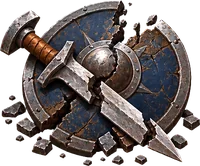
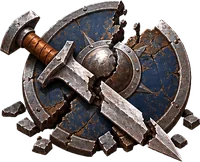
KI-Bilder: Splitter beim Schneiden weg, Anleitung-Rolle schmaler (Text bleibt ganz lesbar)
Claude-Session: https://claude.ai/code/session_01VPpreBuZBrHe5F1psNJEsf

diff --git a/Game/spiel.php b/Game/spiel.php
@@ -1966,8 +1966,8 @@ svg.icon:has(> use[href="#i-castle"]){--ki-sym:url(bilder/ui_sym_burg.webp)} svg
 /* ---------------- Listen-Karten, Hinweisbox (Anleitung), Balken ---------------- */
 .ach{border:0;border-style:solid;background:none;border-image:url(bilder/ui_karte.webp) 24 fill / 8px stretch}
 .ach.is-ready{border-image:url(bilder/ui_karte_an.webp) 24 fill / 8px stretch}
-.anleitung{border:0;border-style:solid;background:none;-webkit-backdrop-filter:none;backdrop-filter:none;padding-left:30px;
-  border-image:url(bilder/ui_hinweis.webp) 30 20 30 80 fill / 10px 7px 10px 28px stretch}
+.anleitung{border:0;border-style:solid;background:none;-webkit-backdrop-filter:none;backdrop-filter:none;padding-left:18px;
+  border-image:url(bilder/ui_hinweis.webp) 30 20 30 80 fill / 10px 7px 10px 20px stretch}
 .pass-bar,.ach-sum-bar{height:12px;padding:3px 11px;border-radius:0;background:none;border-style:solid;border-width:0;overflow:visible;
   border-image:url(bilder/ui_balken.webp) 12 40 12 40 fill / 5px 14px 5px 14px stretch} .pass-bar i,.ach-sum-bar i{border-radius:3px}
 

diff --git a/Game/spielseite/05z-stil-ki-bilder.php b/Game/spielseite/05z-stil-ki-bilder.php
@@ -86,8 +86,8 @@ svg.icon:has(> use[href="#i-castle"]){--ki-sym:url(bilder/ui_sym_burg.webp)} svg
 /* ---------------- Listen-Karten, Hinweisbox (Anleitung), Balken ---------------- */
 .ach{border:0;border-style:solid;background:none;border-image:url(bilder/ui_karte.webp) 24 fill / 8px stretch}
 .ach.is-ready{border-image:url(bilder/ui_karte_an.webp) 24 fill / 8px stretch}
-.anleitung{border:0;border-style:solid;background:none;-webkit-backdrop-filter:none;backdrop-filter:none;padding-left:30px;
-  border-image:url(bilder/ui_hinweis.webp) 30 20 30 80 fill / 10px 7px 10px 28px stretch}
+.anleitung{border:0;border-style:solid;background:none;-webkit-backdrop-filter:none;backdrop-filter:none;padding-left:18px;
+  border-image:url(bilder/ui_hinweis.webp) 30 20 30 80 fill / 10px 7px 10px 20px stretch}
 .pass-bar,.ach-sum-bar{height:12px;padding:3px 11px;border-radius:0;background:none;border-style:solid;border-width:0;overflow:visible;
   border-image:url(bilder/ui_balken.webp) 12 40 12 40 fill / 5px 14px 5px 14px stretch} .pass-bar i,.ach-sum-bar i{border-radius:3px}
 

diff --git a/werkzeuge/ui_bilder_schneiden.py b/werkzeuge/ui_bilder_schneiden.py
@@ -87,7 +87,11 @@ for blatt, (verfahren, d, auswahl) in BLAETTER.items():
             stueck = roh[y0:y1, x0:x1]
         else:
             x0, y0, x1, y1 = teil(sauber[:, :, 3], d, ort)
-            stueck = sauber[y0:y1, x0:x1]
+            stueck = sauber[y0:y1, x0:x1].copy()
+            lab, n = ndimage.label(stueck[:, :, 3] > 8)   # Splitter vom Nachbarteil weg (unter 2 % der Fläche)
+            groesse = ndimage.sum(np.ones(lab.shape), lab, range(1, n + 1))
+            for i, g in enumerate(groesse, 1):
+                if g < groesse.max() * 0.02: stueck[lab == i, 3] = 0
         stueck = Image.fromarray(stueck)
         stueck = stueck.crop(stueck.getchannel('A').point(lambda v: 255 if v > 8 else 0).getbbox())
         h = round(stueck.height * breite / stueck.width)
